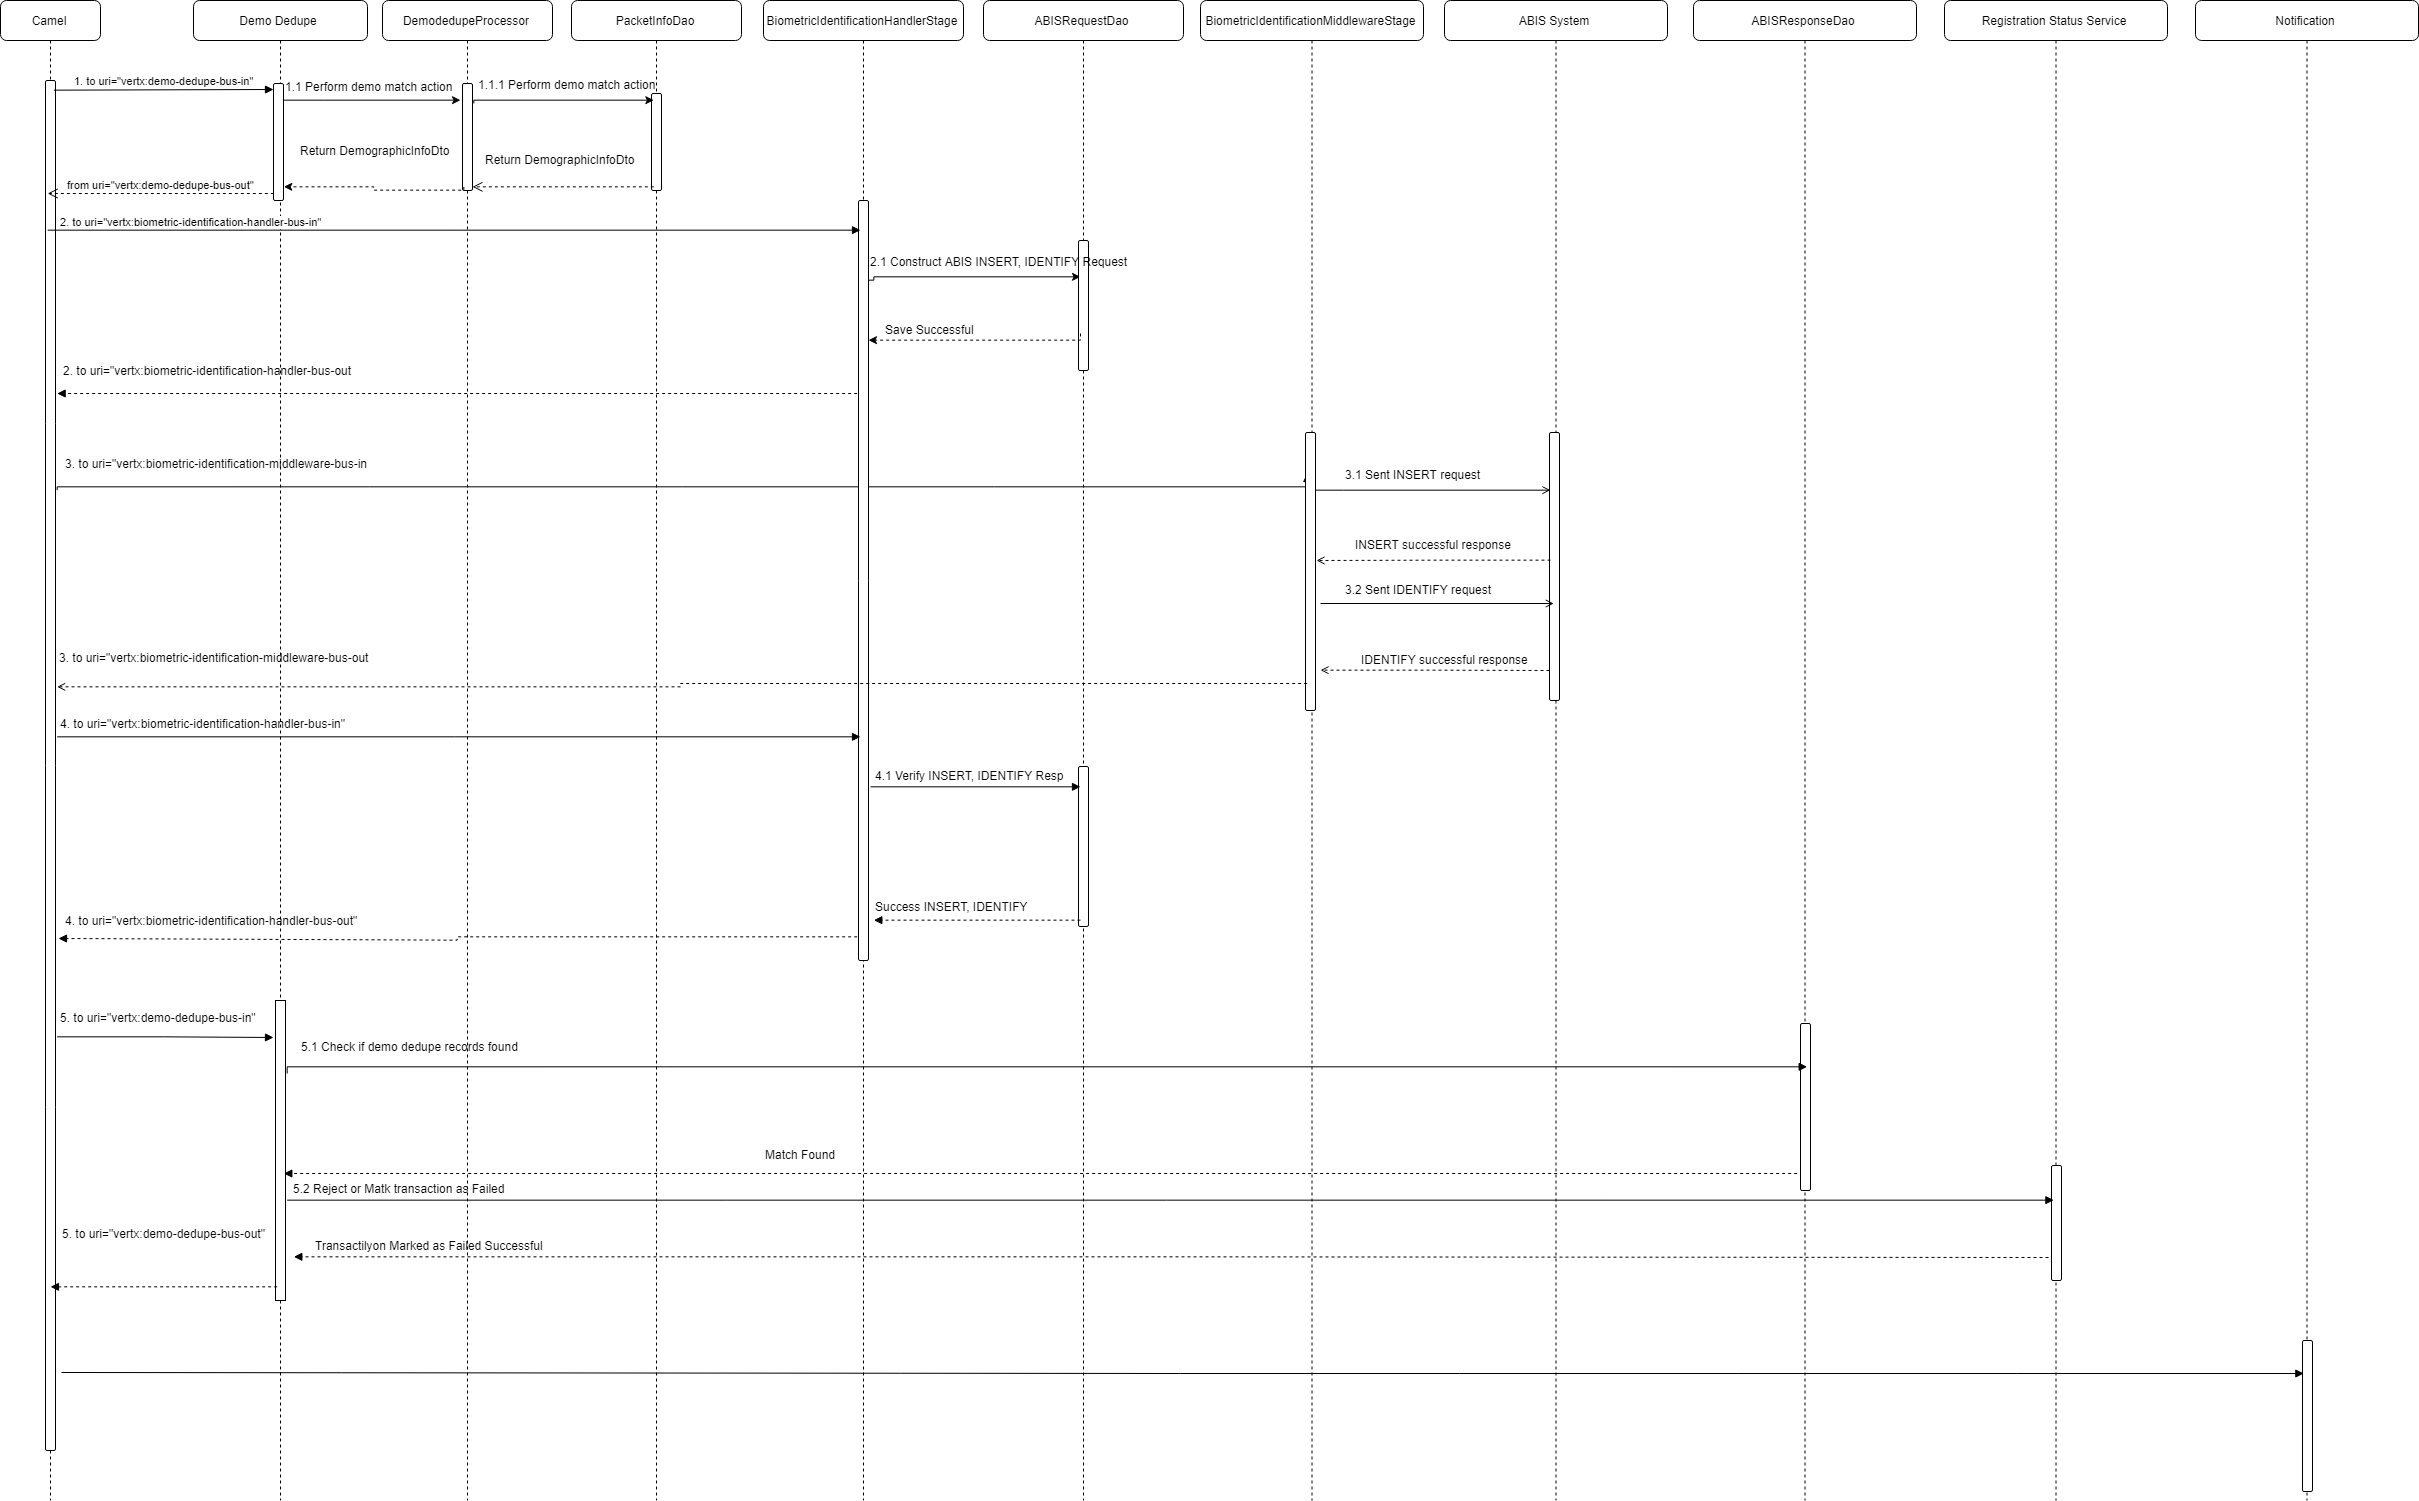
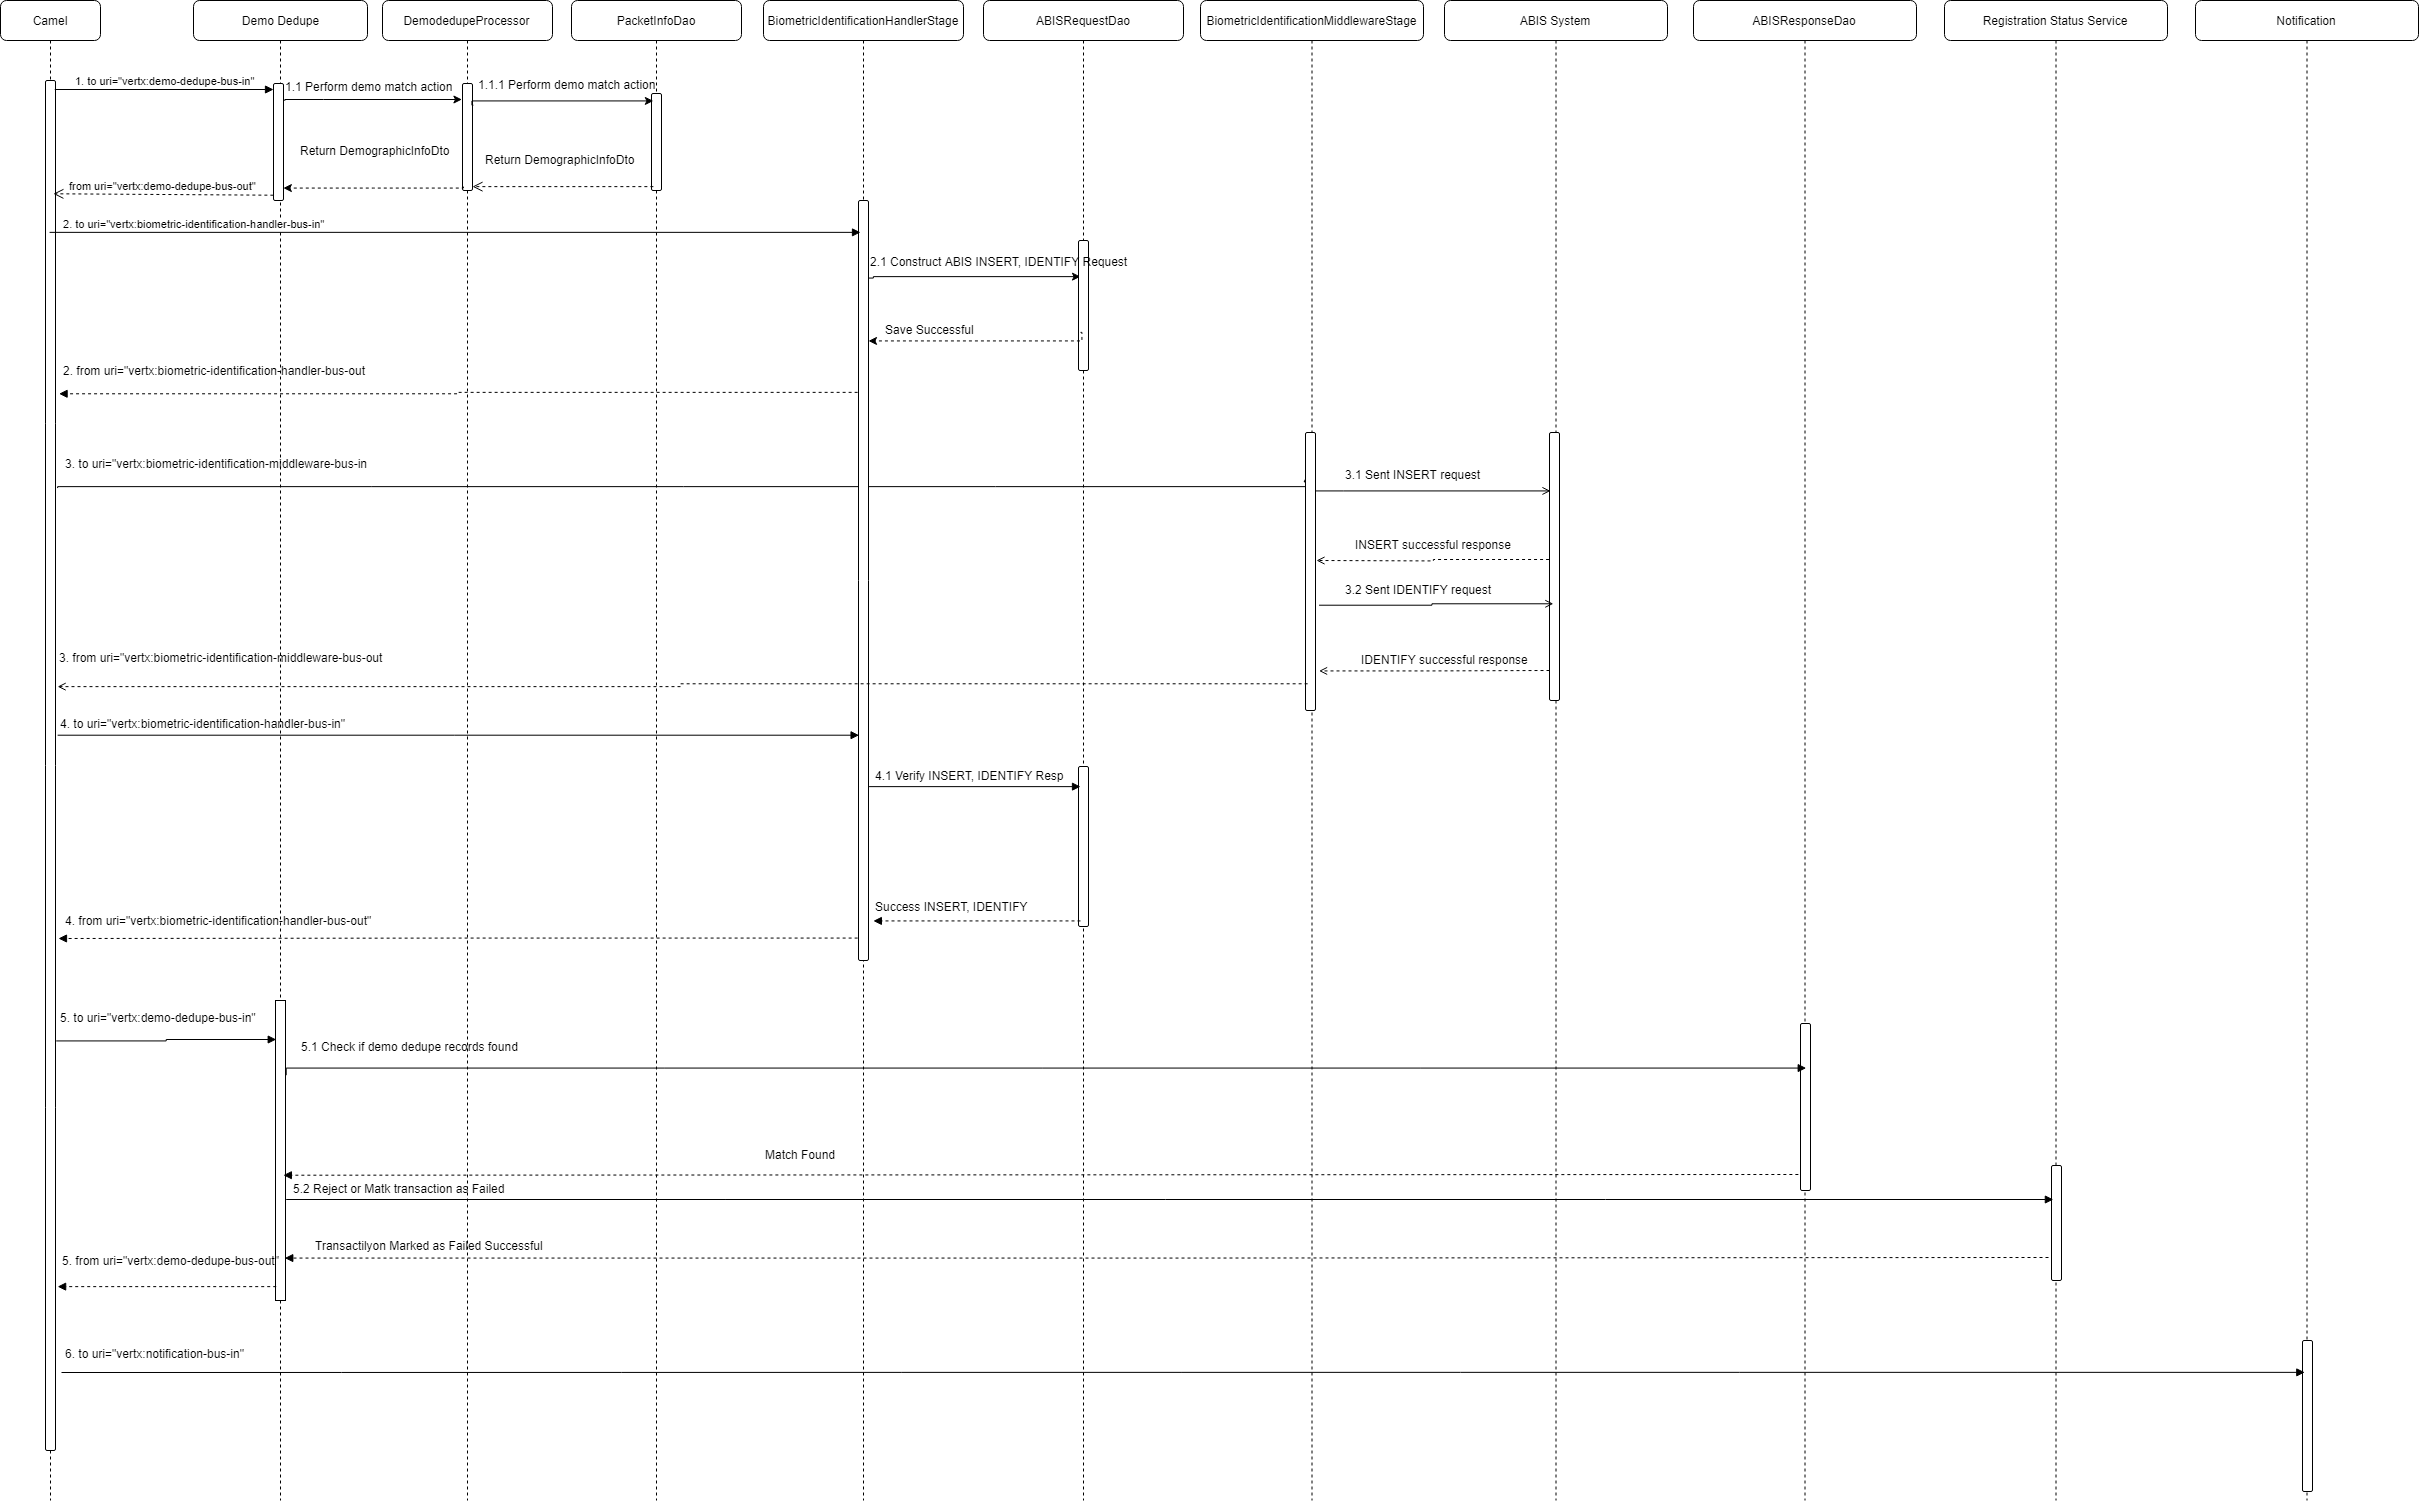
MOS-21770:Added sequence diagram for demo no match

diff --git a/docs/design/registration-processor/Approach_for_ABIS_Integration.md b/docs/design/registration-processor/Approach_for_ABIS_Integration.md
@@ -105,5 +105,11 @@ The key solution considerations are -
 ------------
 
 
+Demo Match Found Sequence Diagram:
 
 ![ABIS middleware demo match sequence diagram](_images/abis_middleware_demo_match_seq_diagram.png)
+
+
+Demo No Match Sequence Diagram:
+
+![ABIS middleware demo match sequence diagram](_images/abis_middleware_demo_no_match_seq_diagram.png)
